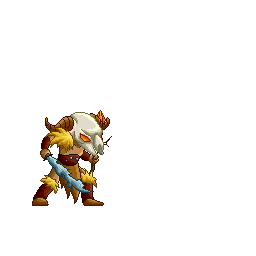
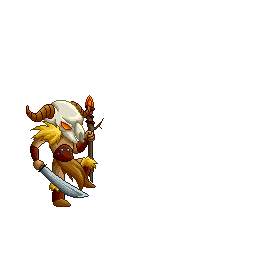
Add SecondBossSpriteMaster Change the second boss's policy Add new assets for attacks and summoning

Changed region(s): [[0.0938, 0.375, 0.4375, 0.8125]]

diff --git a/characters/level2/wizard_level2.py b/characters/level2/wizard_level2.py
@@ -1,75 +1,148 @@
 import pygame
 from characters.enemy import Enemy
 from characters.level1.projectile_level1 import Projectile
-from masters.first_boss_sprite_master import FirstBossSpriteMaster
+from masters.second_boss_sprite_master import SecondBossSpriteMaster
 from scenes.scene_state import SceneState
 
 
 class Wizard(Enemy):
 
     def __init__(self, game_screen, start_position, projectile: Projectile):
-        super().__init__(game_screen, start_position, FirstBossSpriteMaster("levels/level2/wizard", 
-                            idle=3, walk=6, close_attack=5, distant_attack=5, 
+        super().__init__(game_screen, start_position, SecondBossSpriteMaster("levels/level2/wizard", 
+                            idle=3, walk=6, close_attack=12, distant_attack=5, summoning=5, 
                             hurt=2, death=5, block=0, start_action="idle"))
         
         # Inject the projectile the wizard will use and adjust its position
         self.projectile = projectile
         self.projectile.current_position[1] = self.current_position[1] + self.size * 0.2
         self.collision_distance = 90
-
-        # Flag that indicates if the wizard has already shot
-        self.has_shot = False
-
         self.size = 220
 
-        # Cooldown time for attacks in milliseconds 
-        self.attack_cooldown = 500
+        # Flag indicating that the wizard has already passed the shooting phase
+        self.shooting_phase_done = False 
 
-        # Elapsed time since last attack action
+        # Flag indicating that the wizard has already passed the close combat phase
+        self.close_combat_phase_done = False 
+
+        # Flag indicating that the wizard has already passed the weakness phase
+        self.weakness_phase_done = False 
+
+        # Flag indicating that the wizard has already passed the combat alert phase
+        self.combat_alert_phase_done = False 
+
+        # Duration of the shooting phase in milliseconds 
+        self.shooting_duration = 5000
+
+        # Duration of the close combat phase in milliseconds 
+        self.close_combat_duration = 5000
+
+        # Duration of the weakness phase in milliseconds 
+        self.weakness_duration = 2000
+
+        # Duration of the combat alert phase in milliseconds 
+        self.combat_alert_duration = 500
+
+        # Flag that indicates if the wizard has already shot within his distant attack
+        self.has_shot = False
+
+        # Cooldown time for attacks in milliseconds 
+        self.distant_attack_cooldown = 500
+
+        # Elapsed time since last action
         self.elapsed_time = 0
+
+        # Elapsed time since last shot
+        self.shot_elapsed_time = 0
     
     def policy(self, scene_state: SceneState) -> str:
         """
-        Shoots once per preset time
-        Dies when your health is less than or equal to 0
+        Has 4 phases of the fight: shooting, close combat, being weak, being alert
         """
-
-        if self.health<=0 and self.death_counter>0:
-            self.death_counter -= self.speed
-            return "death"   
         
-        if self.health <= 0 and self.death_counter <= 0:
-            self.current_position = (-100, -100)
-            return "death"
+        if self.health<=0:
+            if self.sprite_master.round_done:
+                self.current_position= (-100, -100)
+            return "death"   
+    
+        self.elapsed_time += scene_state.get_elapsed_time()
 
-        if self.current_action in ["fight", "shoot"]:
+        if not self.shooting_phase_done:
+            if self.elapsed_time < self.shooting_duration:
+                return self.fire(scene_state)
+            else:
+                self.shooting_phase_done = True
+                self.elapsed_time = 0
+        elif not self.close_combat_phase_done:
+            if self.elapsed_time < self.close_combat_duration:
+                return self.hit(scene_state)
+            else:
+                self.close_combat_phase_done = True
+                self.elapsed_time = 0
+        elif not self.weakness_phase_done:
+            if self.elapsed_time < self.weakness_duration:
+                return self.be_weak()
+            else:
+                self.weakness_phase_done = True
+                self.elapsed_time = 0
+        elif not self.combat_alert_phase_done:
+            if self.elapsed_time < self.combat_alert_duration:
+                return self.be_alert()
+            else:
+                self.combat_alert_phase_done = True
+                self.elapsed_time = 0
+        else:
+            self.shooting_phase_done = False
+            self.close_combat_phase_done = False
+            self.weakness_phase_done = False
+            self.combat_alert_phase_done = False
+            self.elapsed_time = 0
+
+        return "idle"
+    
+    def fire(self, scene_state: SceneState):
+        
+        if self.current_action in ["distant_fight", "shoot"]:
             # If it's one of the hit frames and it hasn't fired yet then return "shoot" instead of "fight"
-            if int(self.fight_counter) == len(self.sprite_master.attack_images) // 2 and not self.has_shot:
-                self.fight_counter -= self.speed
+            if 3.0 <= self.sprite_master.frame_index and not self.has_shot:
                 self.has_shot = True
                 return "shoot"
             # If the attack animation isn't over yet then return "fight"
-            if self.fight_counter > 0:
-                self.fight_counter -= self.speed
-                return "fight"
+            if not self.sprite_master.round_done:
+                return "distant_fight"
             # Otherwise return "idle"
             else:
-                self.fight_counter = len(self.sprite_master.attack_images)
-                self.elapsed_time = 0
+                self.shot_elapsed_time = 0
                 self.has_shot = False
                 return "idle"
         # If the current action is "idle" 
         # then update the elapsed time and check if it's bigger than the cooldown time 
         else:
-            self.elapsed_time += scene_state.get_elapsed_time()
-            print(f"elapsed time = {self.elapsed_time}")
+            self.shot_elapsed_time += scene_state.get_elapsed_time()
+            print(f"elapsed time = {self.shot_elapsed_time}")
             # If the cooldown is over then return "fight" to begin a new attack
             # otherwise keep waiting
-            if self.elapsed_time >= self.attack_cooldown:
-                return "fight"
+            if self.shot_elapsed_time >= self.distant_attack_cooldown:
+                return "distant_fight"
             else:
-                print("I'm waiting")
                 return "idle"
+            
+    def hit(self, scene_state: SceneState):
+
+        if self.current_action in ["close_fight", "hit"]:
+            if self.sprite_master.round_done:
+                return "idle"
+            elif 8.0 <= self.sprite_master.frame_index <= 9.0:
+                return "hit"
+            else:
+                return "close_fight"
+        elif self.cal_distance2player(scene_state.get_player_pos()) < 100:
+            return "close_fight"
+    
+    def be_weak(self):
+        return "hurt"
+    
+    def be_alert(self):
+        return "idle"
     
     def get_projectile(self):
         """

diff --git a/masters/second_boss_sprite_master.py b/masters/second_boss_sprite_master.py
@@ -1,0 +1,51 @@
+import pygame
+import os
+from masters.first_boss_sprite_master import FirstBossSpriteMaster
+
+class SecondBossSpriteMaster(FirstBossSpriteMaster):
+    """
+    The first level boss's sprite master
+    It extends the FirstBossSpriteMaster by adding summoning
+    """ 
+
+    def __init__(self, path, 
+                 idle: int, walk:int, close_attack:int, 
+                 distant_attack:int, summoning: int, hurt:int, death:int, 
+                 block: int, animation_speed=0.1, start_action="idle"):
+        super().__init__(path, idle, walk, close_attack, 
+                         distant_attack, hurt, death, block,
+                         animation_speed, start_action)
+        self.summoning_images = [pygame.image.load(os.path.join(path, f'summon{i}.png')) for i in range(summoning)]
+    
+    def get_sprite_frame(self, action):
+        self.round_done = False
+        # Update animation based on action
+        if action == 'idle':
+            self.current_images = self.idle_images
+        elif action == 'close_fight' or action == "hit":
+            self.current_images = self.attack_images
+        elif action == "distant_fight" or action == "shoot":
+            self.current_images = self.shoot_images
+        elif action == 'walk':
+            self.current_images = self.walk_images
+        elif action == 'hurt':
+            self.current_images = self.hurt_images
+        elif action == 'death':
+            self.current_images = self.death_images
+        elif action == 'block':
+            self.current_images = self.block_images
+        elif action == "summon":
+            self.current_images = self.summoning_images
+        
+
+        # Update frame index
+        self.frame_index += self.animation_speed
+        if self.frame_index >= len(self.current_images):
+            self.frame_index = 0
+            self.round_done = True
+
+        # pick the correct frame
+        frame = int(self.frame_index)
+        self.image = self.current_images[frame]
+
+        return self.image
